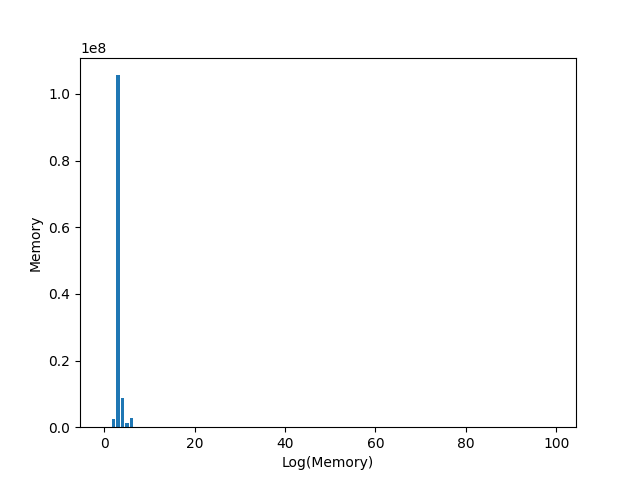
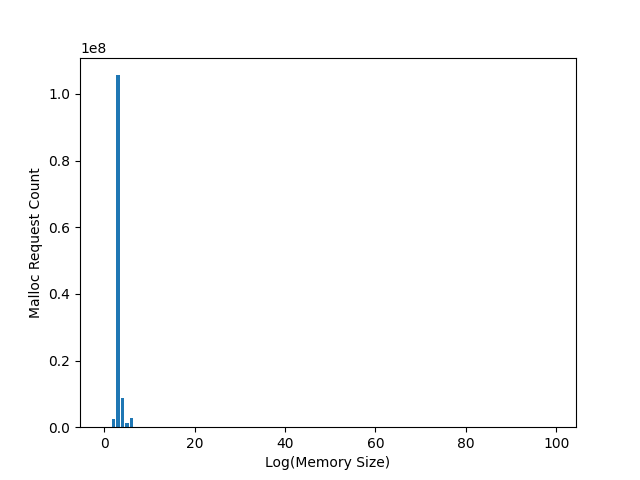
Update malloc request graphs

Changed region(s): [[0.4062, 0.9375, 0.625, 1.0], [0.0312, 0.3438, 0.0625, 0.6562]]

diff --git a/malloc_interposer/histogram.py b/malloc_interposer/histogram.py
@@ -47,6 +47,6 @@ for i in malloc_sizes:
 
 plt.bar([i for i in range(bins)], hist)
 
-plt.ylabel('Memory')
-plt.xlabel('Log(Memory)')
+plt.ylabel('Malloc Request Count')
+plt.xlabel('Log(Memory Size)')
 plt.savefig('graphs/' + 'malloc_' + trace_name + '-memmem-hist')
